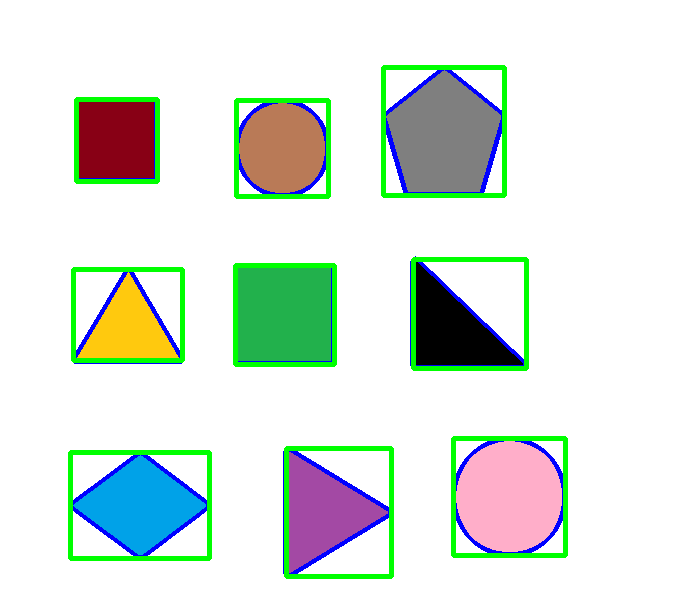
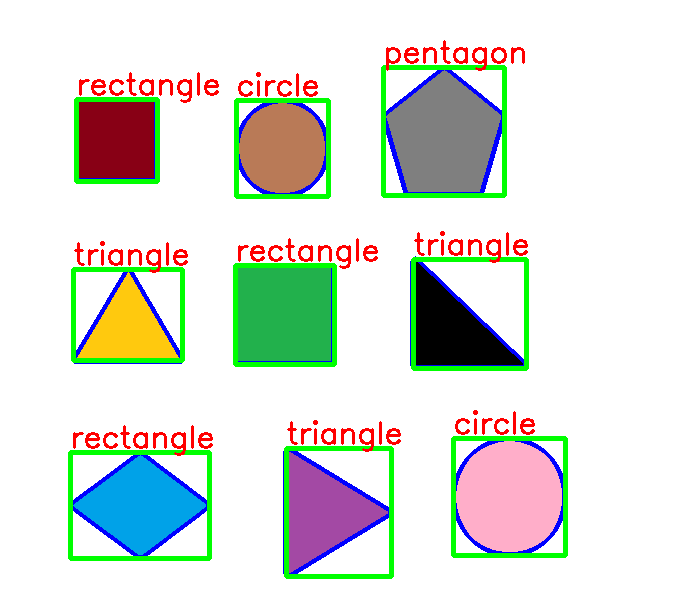
利用 for 迴圈去跑輪廓 ( 圖形依形狀分類並做標記 )

diff --git a/0117_1.py b/0117_1.py
@@ -50,7 +50,7 @@ for cnt in contours:
     if (area > 300):
 
         # 4-4 取得輪廓的邊長 (外框總長)
-        print(cv.arcLength(cnt, True))
+        #print(cv.arcLength(cnt, True))
         peri = cv.arcLength(cnt, True)
         '''
         .arcLength
@@ -62,7 +62,8 @@ for cnt in contours:
 
         # 4-5 用多邊形近似輪廓
         vertices = cv.approxPolyDP(cnt, peri*0.02, True)
-        print(len(vertices))
+        #print(len(vertices))
+        corners = len(vertices) # 儲存頂點數目
         '''
         .approxPolyDP 會回傳多邊形的頂點，算出來頂點特多的可能就是圓形
         (參數1: 要近似的輪廓
@@ -79,6 +80,19 @@ for cnt in contours:
         cv.rectangle(imgContour, (x, y), (x+w, y+h), (0, 255, 0), 4)
         '''
         .rectangle (要畫的圖片，方框左上座標，方框右下座標，框線顏色，框線粗細)
+        '''
+
+        # 4-6 圖形依形狀分類並做標記
+        if (corners == 3):
+            cv.putText(imgContour, 'triangle', (x, y-5), cv.FONT_HERSHEY_SIMPLEX, 1, (0, 0, 255), 2)
+        elif (corners == 4):
+            cv.putText(imgContour, 'rectangle', (x, y-5), cv.FONT_HERSHEY_SIMPLEX, 1, (0, 0, 255), 2)
+        elif (corners ==5):
+            cv.putText(imgContour, 'pentagon', (x, y-5), cv.FONT_HERSHEY_SIMPLEX, 1, (0, 0, 255), 2)
+        else:
+            cv.putText(imgContour, 'circle', (x, y-5), cv.FONT_HERSHEY_SIMPLEX, 1, (0, 0, 255), 2)
+        '''
+        .putText (要畫的圖片，要寫的字，字的起始座標，字型，文字大小，字的顏色，文字粗度)
         '''
 
 
